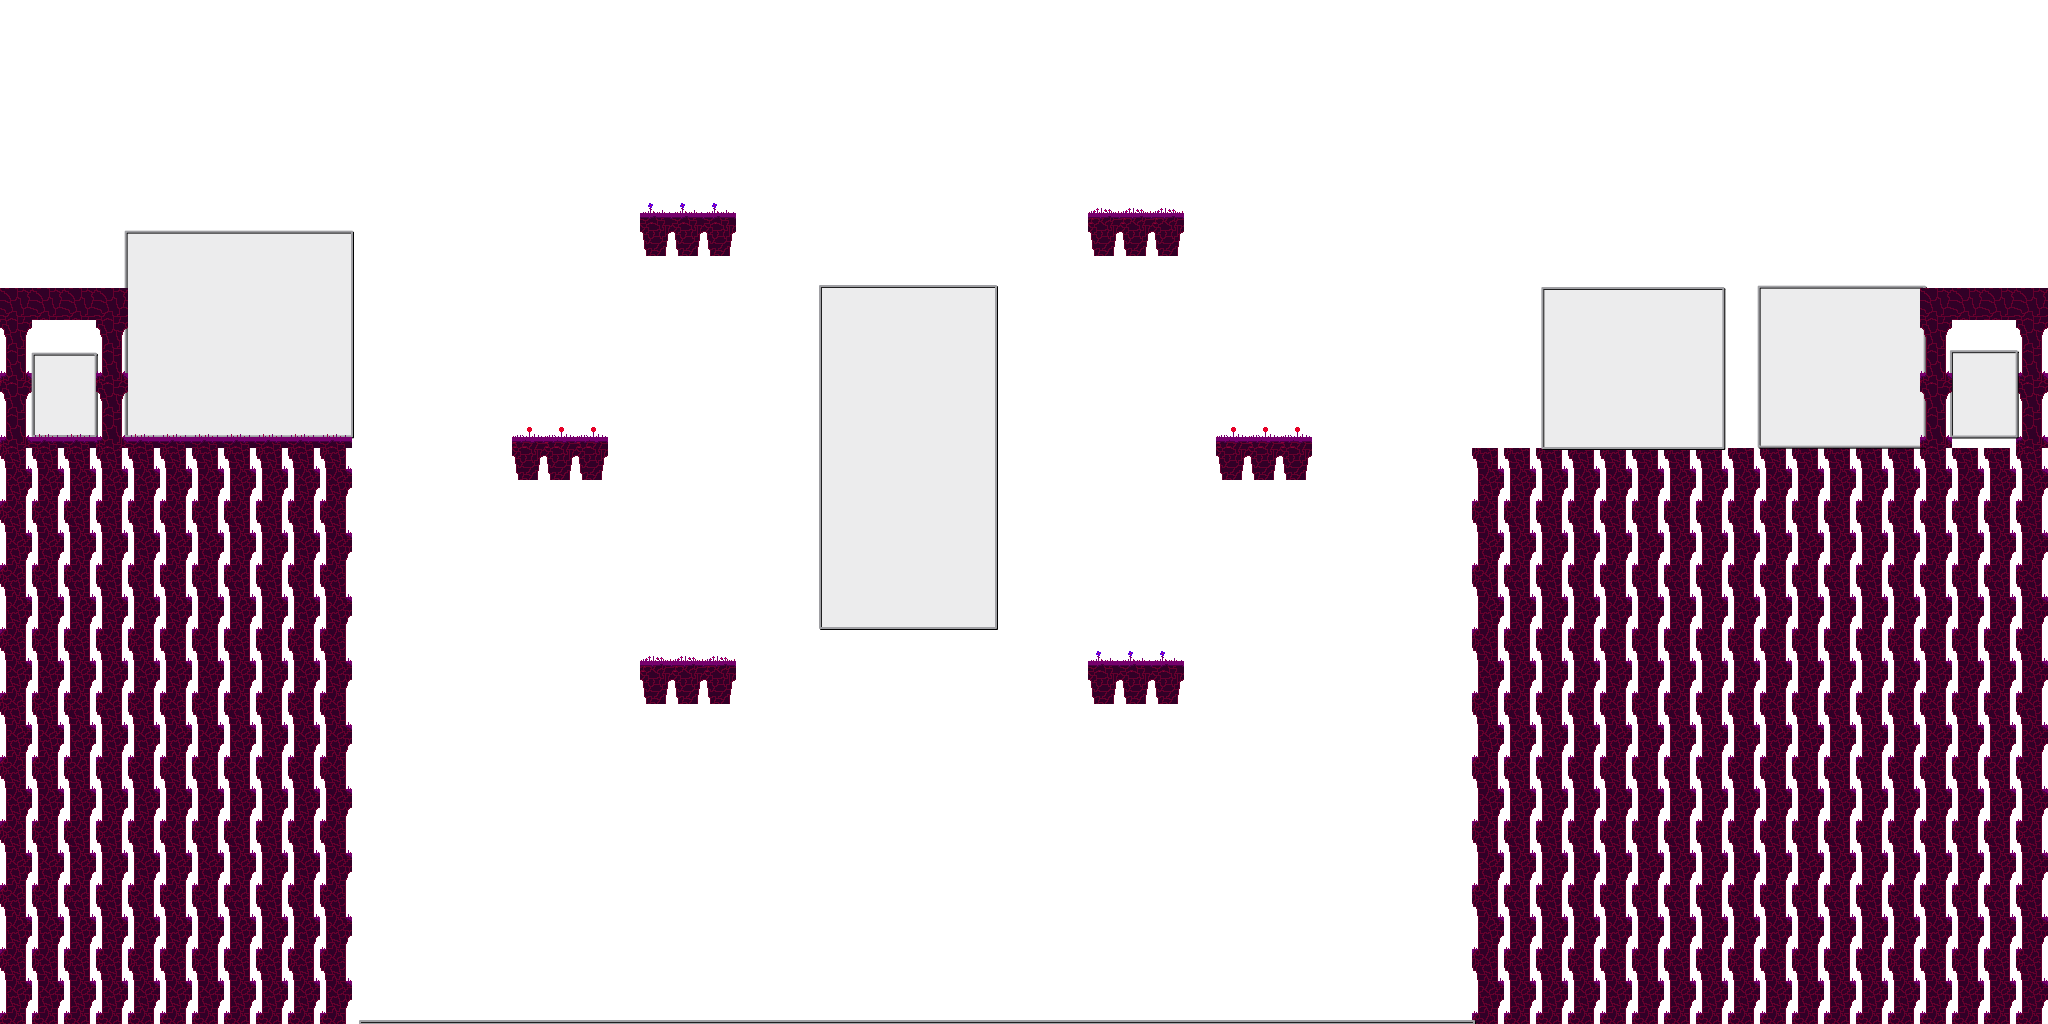
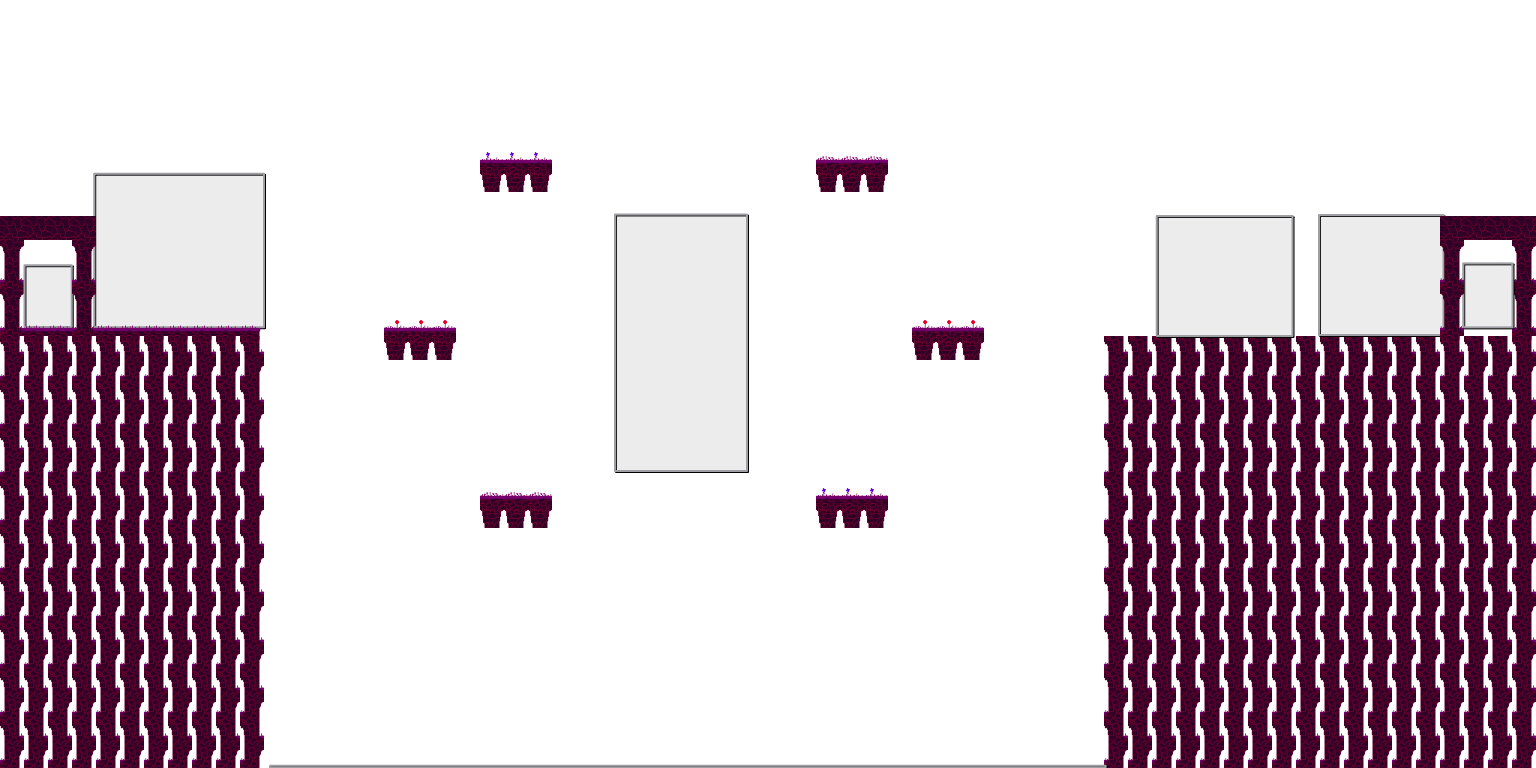
Develop (#2)
* Arreglado un bug con los mapas

* Update README.md

diff --git a/README.md b/README.md
@@ -1,5 +1,10 @@
 # venariStrigas
 
+
+Cambio del Domingo 19/07/2020
+-Arreglado el problema con los mapas que estaban mal superpuestos. Ahora los pies del personaje son cubiertos en su totalidad en los dos mapas donde se presentaba ese error. Los demas mapas permanecen igual.
+
+
 Bueno, este readme queda para la posteridad explicando un poco elementos basicos del juego, y un poco como funciona. Al final del readme estan los links de los assets utilizados en este juego.
 
 
